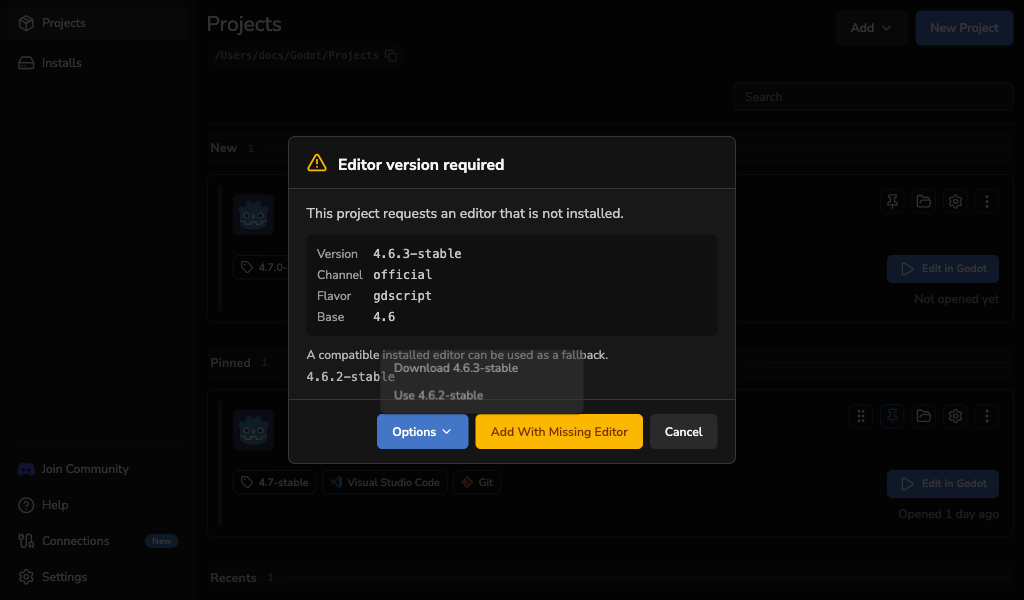
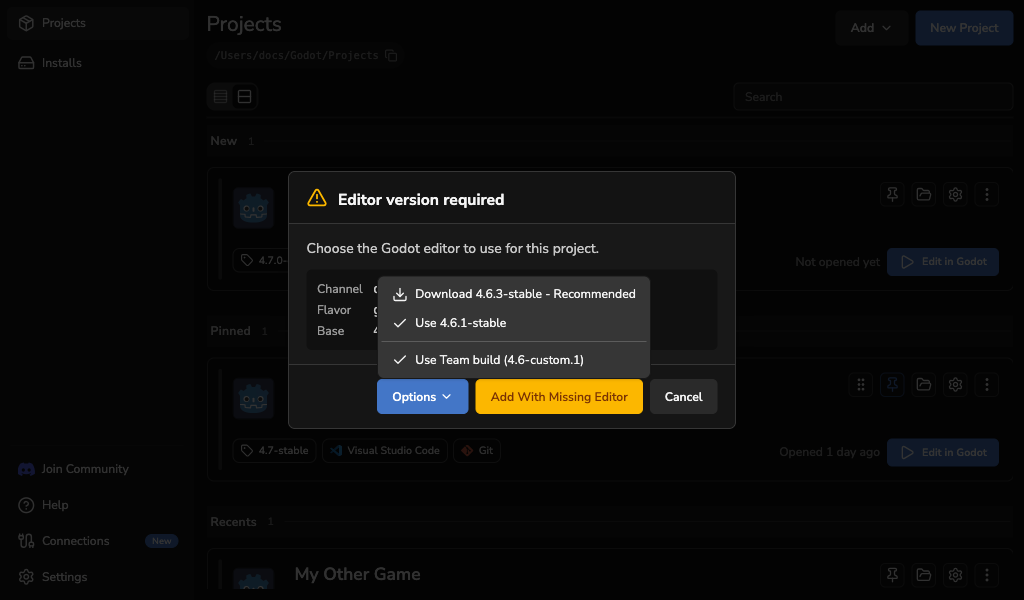
docs(import): explain editor selection during project imports

diff --git a/docs/troubleshooting.md b/docs/troubleshooting.md
@@ -108,11 +108,17 @@ Removing a custom editor registration does not delete its files. See [Installing
 
 ### An added project needs a Godot editor
 
-When the project requests a version that is not installed, choose one of the available actions:
+When the project has no saved editor metadata, Godot Launcher reads its major.minor version from `project.godot` and checks for C# project files to choose the Standard or .NET flavour. If it can identify the version, it lists matching official stable editors that are installed or available to download for your platform and recommends the newest. If no stable option is available, it lists only the newest matching prerelease. Matching registered custom editors appear below a divider after the official options.
 
-- Download the requested official editor.
-- Use a compatible installed editor.
-- Add the project now and choose an editor later.
+Choose an installed editor to use it immediately, or choose a downloadable editor to add the project first and download the editor in the background. If the download fails, the project retains the exact editor you selected and stays marked as missing its editor until you retry or repair the installation.
+
+When a project includes `.godotlauncher`, its requested editor remains selected unless you explicitly choose a different available editor. You can also choose **Add With Missing Editor** or **Cancel**. Adding with a missing editor does not change `project.godot`.
+
+For an editor that is not installed, the available actions are:
+
+- Download an available official editor.
+- Use an available installed editor.
+- Add the project with a missing editor.
 
 <ThemedImage
   className="docs-media-frame"
